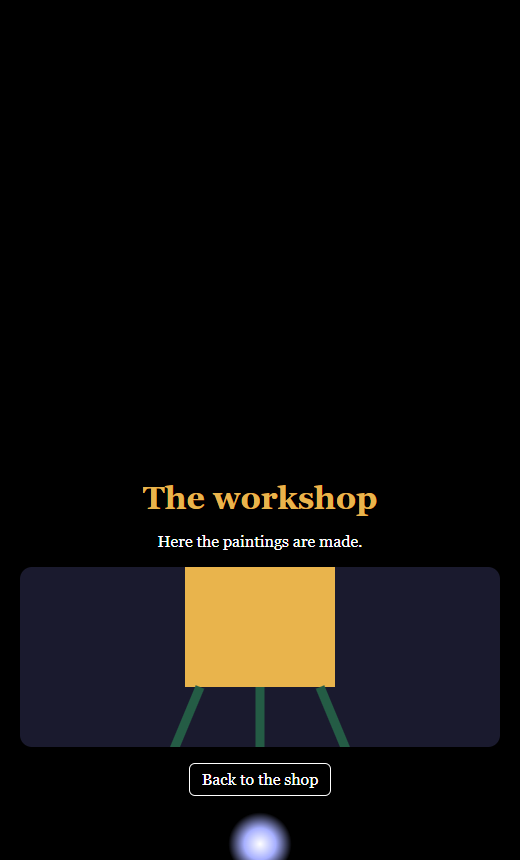
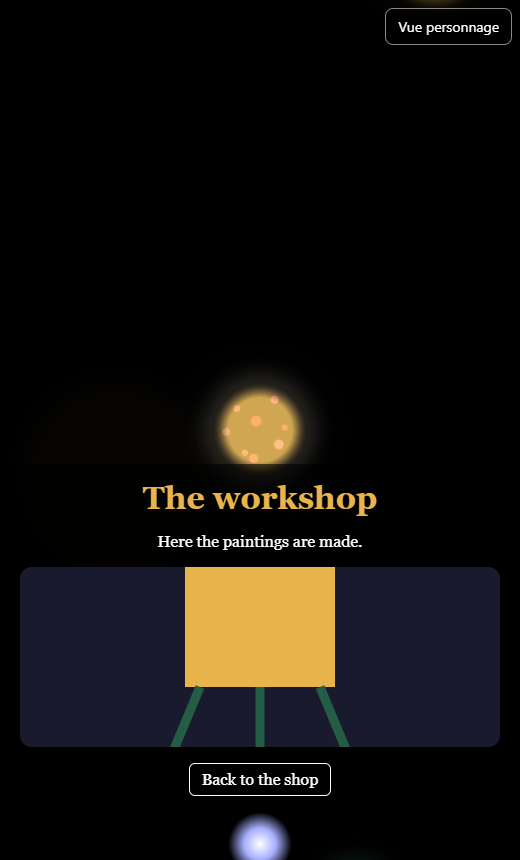
feat(moteur): vue personnage, la page posée comme une feuille dans un monde
Navigation::surface place une surface plate dans le monde ; changer_de_monde
passe d'un monde à l'autre ; page.html bascule entre vue web et vue personnage
sans recharger la page. Tests du cœur : 42.

diff --git a/moteur/web/page.html b/moteur/web/page.html
@@ -1,51 +1,124 @@
 <!doctype html>
 <!-- Porte d'entrée pour une page : identique pour tous les fichiers .holo.
-     Le moteur fabrique la page (vue à plat) ; entrer dans un point ouvre la vue en profondeur,
-     avec le contenu du monde lisible sur un panneau (ADR-018, option A).
+
+     Le même fichier se voit de deux places :
+     - vue web : le site en 2D classique, fabriqué par le moteur (vue à plat) ;
+     - vue personnage : on est dans un monde, et la même page y est posée comme une
+       feuille, à la manière d'un téléphone tenu dans un jeu. Rien n'est rechargé.
+     Entrer dans un point ouvre son monde, avec son contenu lisible sur un panneau.
+
      Cette page ne décide de rien : chaque toucher est envoyé au moteur, qui répond par les
      effets que les règles du fichier demandent (ADR-015). -->
 <html lang="fr"><head><meta charset="utf-8"><title>HoloCode</title>
 <meta name="viewport" content="width=device-width, initial-scale=1">
 <style>
   html,body{margin:0;background:#000}
-  canvas.holo-profondeur{position:absolute;inset:0;width:100%;height:100%;display:block;touch-action:none}
-  #erreur{position:fixed;left:8px;bottom:8px;right:8px;color:#f88;font:13px monospace;white-space:pre-wrap}
+  canvas.holo-profondeur{position:fixed;inset:0;width:100vw;height:100vh;display:none;touch-action:none;z-index:0}
+  .avec-monde>canvas.holo-profondeur{display:block}
+  .holo-Page>main{position:relative;z-index:1}
+  /* Le fond d'un monde est la vue en profondeur elle-même. */
+  .holo-World{background:none!important;z-index:2}
+  /* Vue personnage : la page devient une feuille posée dans le monde. */
+  .mode-personnage{height:100vh;overflow:hidden}
+  .mode-personnage>main{position:fixed;left:50%;top:50%;width:420px;height:640px;box-sizing:border-box;overflow:auto;
+    background:inherit;padding:inherit;border-radius:16px;box-shadow:0 0 40px rgba(233,180,76,.25);
+    transform-origin:center;backface-visibility:hidden;will-change:transform}
+  #mode{position:fixed;top:8px;right:8px;z-index:5;padding:8px 12px;border:1px solid #888;border-radius:8px;
+    background:rgba(0,0,0,.6);color:#fff;font:14px system-ui,sans-serif;cursor:pointer}
+  #mode[hidden]{display:none}
+  #erreur{position:fixed;left:8px;bottom:8px;right:8px;z-index:6;color:#f88;font:13px monospace;white-space:pre-wrap}
 </style>
 </head><body><div id="page"></div>
+<button id="mode" type="button" hidden>Vue personnage</button>
 <script type="module">
-  import init, { demarrer, pause, vue_a_plat, effets, source_du_point } from "./pkg/holo_moteur.js";
+  import init, { demarrer, changer_de_monde, pause, surface, vue_a_plat, effets, source_du_point, monde_d_accueil } from "./pkg/holo_moteur.js";
   window.__holoPause = pause;
   const params = new URLSearchParams(location.search);
   const chemin = params.get("monde") ?? "/exemples/boutique-comparee/boutique.holo";
   const base = chemin.slice(0, chemin.lastIndexOf("/") + 1);
   const racine = document.getElementById("page");
+  const boutonMode = document.getElementById("mode");
+  // La feuille mesure 2 unités de haut dans le monde, dont les points sont sur une sphère de rayon 1.
+  const HAUTEUR_FEUILLE_MONDE = 2;
+  const HAUTEUR_FEUILLE_PX = 640;
   let source = "";
-  let page = null;
-  let enProfondeur = null; // le point dont la vue en profondeur tourne
+  let cadre = null;         // l'élément .holo-Page
+  let page = null;          // son contenu, <main>
+  let moteurLance = false;
+  let personnage = false;   // vue personnage ou vue web
+  let dansLePoint = null;   // le point dans lequel on est entré
+
+  // Montre la vue en profondeur d'un point (un fichier .holo réduit à ce point).
+  async function montrerMonde(sourceDuPoint, zoom) {
+    cadre.classList.add("avec-monde");
+    if (!moteurLance) {
+      moteurLance = true;
+      const canvas = document.createElement("canvas");
+      canvas.className = "holo-profondeur";
+      cadre.prepend(canvas);
+      await demarrer(canvas, sourceDuPoint, zoom);
+      // Si la carte graphique a exigé une nouvelle zone de dessin, elle garde la même place.
+      cadre.querySelector("canvas")?.classList.add("holo-profondeur");
+    } else {
+      changer_de_monde(sourceDuPoint, zoom);
+      pause(false);
+    }
+  }
+
+  function cacherMonde() {
+    cadre.classList.remove("avec-monde");
+    if (moteurLance) pause(true);
+  }
+
+  // Vue personnage : la page suit le monde, comme un objet qu'on y aurait posé.
+  function poserLaFeuille() {
+    if (!personnage || dansLePoint) return;
+    const s = surface();
+    if (s.length) {
+      const [x, y, echelle, lacet, tangage, profondeur, distance] = s;
+      const demiHauteur = innerHeight / 2;
+      const unite = echelle * demiHauteur; // pixels pour une unité du monde
+      const f = (unite * HAUTEUR_FEUILLE_MONDE) / HAUTEUR_FEUILLE_PX;
+      // Plongé dans un point né de la graine, on a quitté le lieu où se trouve la feuille.
+      page.style.visibility = profondeur > 0 ? "hidden" : "visible";
+      page.style.transform =
+        `translate(-50%,-50%) translate(${x * demiHauteur}px,${-y * demiHauteur}px) ` +
+        `perspective(${distance * unite}px) rotateX(${tangage}rad) rotateY(${-lacet}rad) scale(${f})`;
+    }
+    requestAnimationFrame(poserLaFeuille);
+  }
+
+  async function changerDeVue(versPersonnage) {
+    personnage = versPersonnage;
+    boutonMode.textContent = personnage ? "Vue web" : "Vue personnage";
+    cadre.classList.toggle("mode-personnage", personnage);
+    page.style.transform = "";
+    page.style.visibility = "visible";
+    if (dansLePoint) return;
+    if (personnage) {
+      await montrerMonde(monde_d_accueil(source), 1);
+      requestAnimationFrame(poserLaFeuille);
+    } else {
+      cacherMonde();
+    }
+    window.scrollTo(0, 0);
+  }
 
   async function appliquer(effet) {
     const [nom, capacite] = effet.split(".");
     const monde = racine.querySelector(`section[data-world="${CSS.escape(nom)}"]`);
     if (!monde) return;
     if (capacite === "enter") {
+      dansLePoint = nom;
       page.hidden = true;
       monde.hidden = false;
-      if (enProfondeur === null) {
-        enProfondeur = nom;
-        const canvas = document.createElement("canvas");
-        canvas.className = "holo-profondeur";
-        monde.prepend(canvas);
-        // Zoom 2 : le point est déjà morcelé, on voit ses enfants sans être entré dans l'un d'eux.
-        await demarrer(canvas, source_du_point(source, nom), 2);
-        // Si la carte graphique a exigé une nouvelle zone de dessin, elle garde la même place.
-        monde.querySelector("canvas")?.classList.add("holo-profondeur");
-      } else if (enProfondeur === nom) {
-        pause(false);
-      }
-    } else if (capacite === "leave") {
+      // Zoom 2 : le point est déjà morcelé, on voit ses enfants sans être entré dans l'un d'eux.
+      await montrerMonde(source_du_point(source, nom), 2);
+    } else if (capacite === "leave" && dansLePoint === nom) {
+      dansLePoint = null;
       monde.hidden = true;
       page.hidden = false;
-      if (enProfondeur === nom) pause(true);
+      await changerDeVue(personnage);
     }
     window.scrollTo(0, 0);
   }
@@ -54,8 +127,9 @@
     await init();
     source = await (await fetch(chemin)).text();
     racine.innerHTML = vue_a_plat(source, base);
-    page = racine.querySelector("main");
-    document.title = page.parentElement.dataset.title || "HoloCode";
+    cadre = racine.querySelector(".holo-Page");
+    page = cadre.querySelector("main");
+    document.title = cadre.dataset.title || "HoloCode";
     racine.addEventListener("click", async (evenement) => {
       const bloc = evenement.target.closest("[data-name]");
       if (!bloc) return;
@@ -63,7 +137,10 @@
         await appliquer(effet);
       }
     });
-    // Pour les captures d'écran : ?entrer=Workshop
+    boutonMode.hidden = false;
+    boutonMode.addEventListener("click", () => changerDeVue(!personnage));
+    // Pour les captures d'écran : ?vue=personnage, ?entrer=Workshop
+    if (params.get("vue") === "personnage") await changerDeVue(true);
     if (params.get("entrer")) await appliquer(`${params.get("entrer")}.enter`);
   } catch (e) {
     const pre = document.body.appendChild(document.createElement("pre"));

diff --git a/moteur/src/web.rs b/moteur/src/web.rs
@@ -38,16 +38,7 @@ pub async fn demarrer(canvas: HtmlCanvasElement, source: &str, zoom_initial: f32
     let decl = crate::verifier(source).map_err(|e| JsValue::from_str(&format!("fichier .holo refusé : {e}")))?;
     ajuster_taille(&canvas);
     let (rendu, canvas) = Rendu::nouveau(canvas).await?;
-    let mut nav = Navigation::new(decl);
-    // Pour les tests et les captures d'écran : partir d'un zoom donné, par petits pas pour
-    // franchir les seuils d'entrée exactement comme le ferait un pincement.
-    let mut restant = zoom_initial.max(0.0);
-    while restant > 0.0 {
-        let pas = restant.min(0.25);
-        nav.zoomer(pas);
-        restant -= pas;
-    }
-    nav.avancer_temps(10.0);
+    let nav = navigation(decl, zoom_initial);
     let etat = Rc::new(RefCell::new(Etat {
         nav,
         rendu,
@@ -63,6 +54,46 @@ pub async fn demarrer(canvas: HtmlCanvasElement, source: &str, zoom_initial: f32
     }));
     brancher(&canvas, &etat)?;
     boucle(etat)
+}
+
+/// Prépare la visite d'un point, en partant d'un zoom donné : par petits pas, pour franchir
+/// les seuils d'entrée exactement comme le ferait un pincement.
+fn navigation(decl: crate::univers::PointDecl, zoom_initial: f32) -> Navigation {
+    let mut nav = Navigation::new(decl);
+    let mut restant = zoom_initial.max(0.0);
+    while restant > 0.0 {
+        let pas = restant.min(0.25);
+        nav.zoomer(pas);
+        restant -= pas;
+    }
+    nav.avancer_temps(10.0);
+    nav
+}
+
+/// Remplace le monde affiché par celui d'un autre point, sans relancer la carte graphique.
+#[wasm_bindgen]
+pub fn changer_de_monde(source: &str, zoom_initial: f32) -> Result<(), JsValue> {
+    let decl = crate::verifier(source).map_err(|e| JsValue::from_str(&format!("fichier .holo refusé : {e}")))?;
+    ETAT.with(|e| match e.borrow().as_ref() {
+        Some(etat) => {
+            etat.borrow_mut().nav = navigation(decl, zoom_initial);
+            Ok(())
+        }
+        None => Err(JsValue::from_str("le moteur n'est pas encore démarré")),
+    })
+}
+
+/// Où poser la page dans le monde, pour la vue personnage : voir `Navigation::surface`.
+/// Vide tant que le moteur n'est pas démarré.
+#[wasm_bindgen]
+pub fn surface() -> Vec<f32> {
+    ETAT.with(|e| e.borrow().as_ref().map(|etat| etat.borrow().nav.surface().to_vec()).unwrap_or_default())
+}
+
+/// Le monde où la page est posée quand on la regarde en personnage.
+#[wasm_bindgen]
+pub fn monde_d_accueil(source: &str) -> Option<String> {
+    crate::monde_d_accueil(source)
 }
 
 /// La vue à plat : la page web ordinaire d'un fichier `.holo`, fabriquée par le moteur.

diff --git a/moteur/src/navigation.rs b/moteur/src/navigation.rs
@@ -242,6 +242,16 @@ impl Navigation {
         [c[0] * recentrage, c[1] * recentrage]
     }
 
+    /// Où se trouve, à l'écran, une surface plate posée au centre du monde et tournant avec
+    /// lui : la page que voit un personnage, comme une feuille tenue dans le lieu.
+    /// Rend : x, y (mêmes unités que les points), agrandissement d'une unité du monde,
+    /// lacet, tangage, profondeur dans les mondes, distance de la caméra.
+    pub fn surface(&self) -> [f32; 7] {
+        let (m, s, recentrage) = self.parametres();
+        let centre = self.centre_ecran(m, recentrage);
+        [-centre[0] * s, -centre[1] * s, FOCALE / DISTANCE_CAMERA * s, self.lacet, self.tangage, self.chemin.len() as f32, DISTANCE_CAMERA]
+    }
+
     /// Où est chaque point enfant à l'écran. Sert au dessin et au toucher.
     pub fn points_ecran(&self, _aspect: f32) -> Vec<PointEcran> {
         let (m, s, recentrage) = self.parametres();
@@ -337,6 +347,26 @@ mod tests {
         assert_eq!(nav.chemin(), "Origin");
         assert!(sprites.len() >= 1 && sprites.len() <= 13);
         assert!(sprites.iter().all(|s| s.x.is_finite() && s.y.is_finite() && s.rayon.is_finite()));
+    }
+
+    #[test]
+    fn la_surface_suit_le_monde() {
+        let mut nav = depart();
+        let depart = nav.surface();
+        assert_eq!(&depart[..2], &[0.0, 0.0], "au départ, la surface est au centre de l'écran");
+        assert!((depart[2] - FOCALE / DISTANCE_CAMERA).abs() < 1e-6);
+        assert_eq!(depart[5], 0.0);
+        nav.tourner(0.3, -0.2);
+        let tournee = nav.surface();
+        assert_eq!((tournee[3], tournee[4]), (nav.lacet, nav.tangage), "elle tourne avec le monde");
+        for _ in 0..8 {
+            nav.zoomer(0.25);
+        }
+        assert!(nav.surface()[2] > depart[2], "elle grandit quand on s'approche");
+        for _ in 0..8 {
+            nav.zoomer(0.25);
+        }
+        assert_eq!(nav.surface()[5], 1.0, "entré dans un point, on a quitté le lieu de la surface");
     }
 
     #[test]

diff --git a/moteur/src/lib.rs b/moteur/src/lib.rs
@@ -85,6 +85,16 @@ pub fn source_du_point(source: &str, nom: &str) -> Option<String> {
     Some(format!("Point({})", reglages.join(", ")))
 }
 
+/// Le monde où la page est posée quand on la regarde en personnage. Provisoire : tant que
+/// le langage ne sait pas écrire « un monde qui contient une page », la graine de ce monde
+/// se tire du nom de la page, pour que le même fichier redonne le même lieu (ADR-008).
+pub fn monde_d_accueil(source: &str) -> Option<String> {
+    let programme = verifier_page(source).ok()?;
+    let nom = regles::nom_de(&programme.racine).unwrap_or("Home");
+    let graine = nom.bytes().fold(0u64, |g, octet| graine::melanger(g ^ u64::from(octet)));
+    Some(format!("Point(name: {nom}, seed: {graine}, fragments: 12)"))
+}
+
 #[cfg(test)]
 mod tests {
     use super::*;
@@ -101,6 +111,17 @@ mod tests {
         let decl = verifier(&point).unwrap();
         assert_eq!((decl.graine, decl.morceler, decl.palette.len()), (42, 6, 2));
         assert_eq!(source_du_point(BOUTIQUE, "Open"), None);
+    }
+
+    #[test]
+    fn le_monde_d_accueil_est_toujours_le_meme() {
+        let accueil = monde_d_accueil(BOUTIQUE).unwrap();
+        assert_eq!(Some(accueil.clone()), monde_d_accueil(BOUTIQUE));
+        let decl = verifier(&accueil).unwrap();
+        assert_eq!((decl.nom.as_str(), decl.morceler), ("Shop", 12));
+        // Une autre page a un autre lieu.
+        assert_ne!(monde_d_accueil("Page(name: Blog)").unwrap(), accueil);
+        assert!(monde_d_accueil("Page(children: [ Div() ])").is_none());
     }
 
     #[test]

diff --git a/moteur/src/plat.rs b/moteur/src/plat.rs
@@ -17,10 +17,10 @@ const BASE: &str = "\
 :where(.holo-Button){font:inherit;color:inherit;cursor:pointer;background:transparent;border:1px solid currentColor;border-radius:6px;padding:6px 12px}\
 :where(.holo-Point){width:64px;height:64px;padding:0;border:0;border-radius:50%;cursor:pointer;\
 background:radial-gradient(circle,white 0%,var(--holo-color,white) 35%,transparent 70%);opacity:var(--holo-brightness,1)}\
-:where(.holo-World){position:fixed;inset:0;margin:0}\
+:where(.holo-World){position:fixed;inset:0;margin:0;pointer-events:none}\
 :where(.holo-World[hidden]){display:none}\
 :where(.holo-panneau){position:absolute;z-index:1;left:0;right:0;bottom:0;max-height:46vh;overflow:auto;padding:16px;\
-box-sizing:border-box;background:rgba(0,0,0,0.6)}";
+box-sizing:border-box;background:rgba(0,0,0,0.6);pointer-events:auto}";
 
 /// Fabrique la page. `base` est le dossier du fichier `.holo`, pour retrouver ses images.
 /// Le fichier doit avoir passé les vérifications (`crate::verifier_page`).

diff --git a/docs/06-journal/JOURNAL.md b/docs/06-journal/JOURNAL.md
@@ -6,6 +6,42 @@ Pour l'état courant en un coup d'œil, voir [`AGENTS.md`](../../AGENTS.md) à l
 
 ---
 
+## 2026-10-03 — La vision se précise (le téléphone de Trevor) ; première vue « personnage »
+
+**Ce que Yocthan a précisé**
+
+- Par défaut, on est devant un site web normal. Le métavers vient en plus.
+- Un site est comme une feuille de papier : plate, mais c'est un vrai objet dans un espace en 3D.
+- Dans GTA, quand Trevor regarde son téléphone, le menu est en 2D à l'intérieur du monde en 3D. Pareil ici : si l'utilisateur est un **personnage**, il voit le site comme une surface posée dans le monde ; sinon il voit le site en 2D classique. Trois situations : il utilise le web (vue classique), il joue son propre personnage (par ses yeux), il joue à un jeu (personnage vu de dos).
+- La peau paraît lisse ; en zoomant, on découvre les microbes. Le zoom révèle les mondes.
+- Une option « rendre en 3D » donnera du volume à un élément important, comme des lettres entre lesquelles on peut se placer.
+- Il a ainsi corrigé la proposition de Claude (tout piloté par le zoom, la page qui « devient » un lieu) : rien ne change de nature, c'est le même objet vu d'une autre place. Et il a relevé, avec raison, que dans la première démo la page disparaissait pour laisser place à un autre écran.
+
+**Fait**
+
+- Yocthan a confirmé qu'il voit bien les points en 3D dans l'atelier : la pull request n° 26 est fusionnée.
+- Feu vert pour un premier pas, à corriger ensuite petit à petit. `moteur/web/page.html` a maintenant un bouton « Vue personnage » : la même page, sans être rechargée, devient une feuille posée au centre d'un monde, avec les points lumineux autour. Elle tourne avec le monde quand on le fait tourner, grandit quand on s'approche, et reste une vraie page : le texte se lit, le bouton marche. « Vue web » ramène au site classique.
+- Moteur : `Navigation::surface` dit où poser une surface plate dans le monde ; `changer_de_monde` passe d'un monde à l'autre sans relancer la carte graphique. Tests du cœur : 42 sur 42.
+- Un sommaire, `http://localhost:8080/accueil.html`, ouvre chaque démonstration à part.
+
+![La boutique vue en personnage : une feuille dans le monde](images/2026-10-03-boutique-holo-personnage.png)
+
+**Provisoire, à décider**
+
+- Le monde où la page est posée n'est écrit nulle part dans le fichier : sa graine est tirée du nom de la page. Le langage ne sait pas encore dire « un monde qui contient une page ».
+- C'est une vue par les yeux (première personne). Le personnage vu de dos demande un corps à dessiner : chantier à part.
+- La feuille est toujours dessinée devant les points, même ceux qui devraient passer devant elle.
+
+**Ce qui n'est pas vérifié**
+
+- Les captures montrent l'affichage des trois états. Les gestes (faire tourner le monde, zoomer, passer d'une vue à l'autre plusieurs fois) n'ont pas été essayés par Claude dans un vrai navigateur. La pull request reste ouverte jusqu'au retour de Yocthan.
+
+**Note sur les captures**
+
+- Les captures sans écran sortaient noires parce qu'elles étaient prises trop tôt : avec un délai de 15 secondes de temps simulé, la vue en profondeur apparaît.
+
+---
+
 ## 2026-10-03 — Proposition : le même web en 3D, et la comparaison avec les concurrents
 
 **Fait**

diff --git a/AGENTS.md b/AGENTS.md
@@ -56,7 +56,7 @@ Le canal entre les IA est **GitHub**, décidé par Yocthan le 2026-10-03 : simpl
 - Trois prototypes Python dans `proposals/` (ChatGPT 8 tests, Claude 27, Gemini 8), des brouillons des règles.
 - Le sprint Big Bang est livré dans `moteur/` : 502 Ko transférés (Ko = 1 000 octets), 19 tests. On touche une boule pour la viser et y entrer ; un bouton met le monde en pause. **Les mesures sur le téléphone de Yocthan restent à faire** ; elles décident des décisions en expérimentation.
 - Exemple de référence : [`exemples/boutique-comparee/`](exemples/boutique-comparee/README.md), la même boutique en HoloCode et en HTML, CSS, JavaScript, avec tout le vocabulaire.
-- Chantier en cours : le langage. Le moteur affiche une page (`moteur/web/page.html`, vue à plat fabriquée en HTML et CSS) et fait entrer dans un point, avec le contenu du monde sur un panneau ; prochaine étape, une boutique lisible dans les deux vues (`Page`, `Text`, `P`, `H1`, `Button`, `On`, et des styles).
+- Chantier en cours : le langage. Le moteur affiche une page (`moteur/web/page.html`, vue à plat fabriquée en HTML et CSS) fait entrer dans un point, avec le contenu du monde sur un panneau, et offre une « vue personnage » où la même page est une feuille posée dans un monde ; prochaine étape, une boutique lisible dans les deux vues (`Page`, `Text`, `P`, `H1`, `Button`, `On`, et des styles).
 
 ## Outillage
 

diff --git a/moteur/README.md b/moteur/README.md
@@ -61,7 +61,7 @@ Le rapport contient : le moteur de rendu utilisé, les images par seconde, la pi
 
 | Mesure | Résultat | Cible du sprint |
 |---|---|---|
-| Tests du cœur (`cargo test`, Rust natif) | 40 sur 40 (17 au premier sprint, 18 avec le toucher, 19 avec les corrections de la revue Codex, 23 avec la vérification des blocs de texte, 28 avec les styles, 29 avec l'exemple de la boutique comparée, 40 avec la vue à plat et les règles) ; dix-sept cas de la suite de conformité y sont lus directement | |
+| Tests du cœur (`cargo test`, Rust natif) | 42 sur 42 (17 au premier sprint, 18 avec le toucher, 19 avec les corrections de la revue Codex, 23 avec la vérification des blocs de texte, 28 avec les styles, 29 avec l'exemple de la boutique comparée, 40 avec la vue à plat et les règles, 42 avec la vue personnage) ; dix-sept cas de la suite de conformité y sont lus directement | |
 | Poids du moteur WebAssembly, brut | 1 942 815 octets (1 943 Ko, 1 Ko = 1 000 octets, comme dans la suite de conformité) | |
 | Poids transféré (Brotli, qualité 11, mesuré localement) | **502 435 octets (502 Ko)**, plus 14 373 octets de JavaScript | moins de 2 Mo |
 | Commit de cette mesure | `8348169`, PC Windows, Rust 1.99 ; le flux GitHub affiche le poids brut à chaque changement | |
